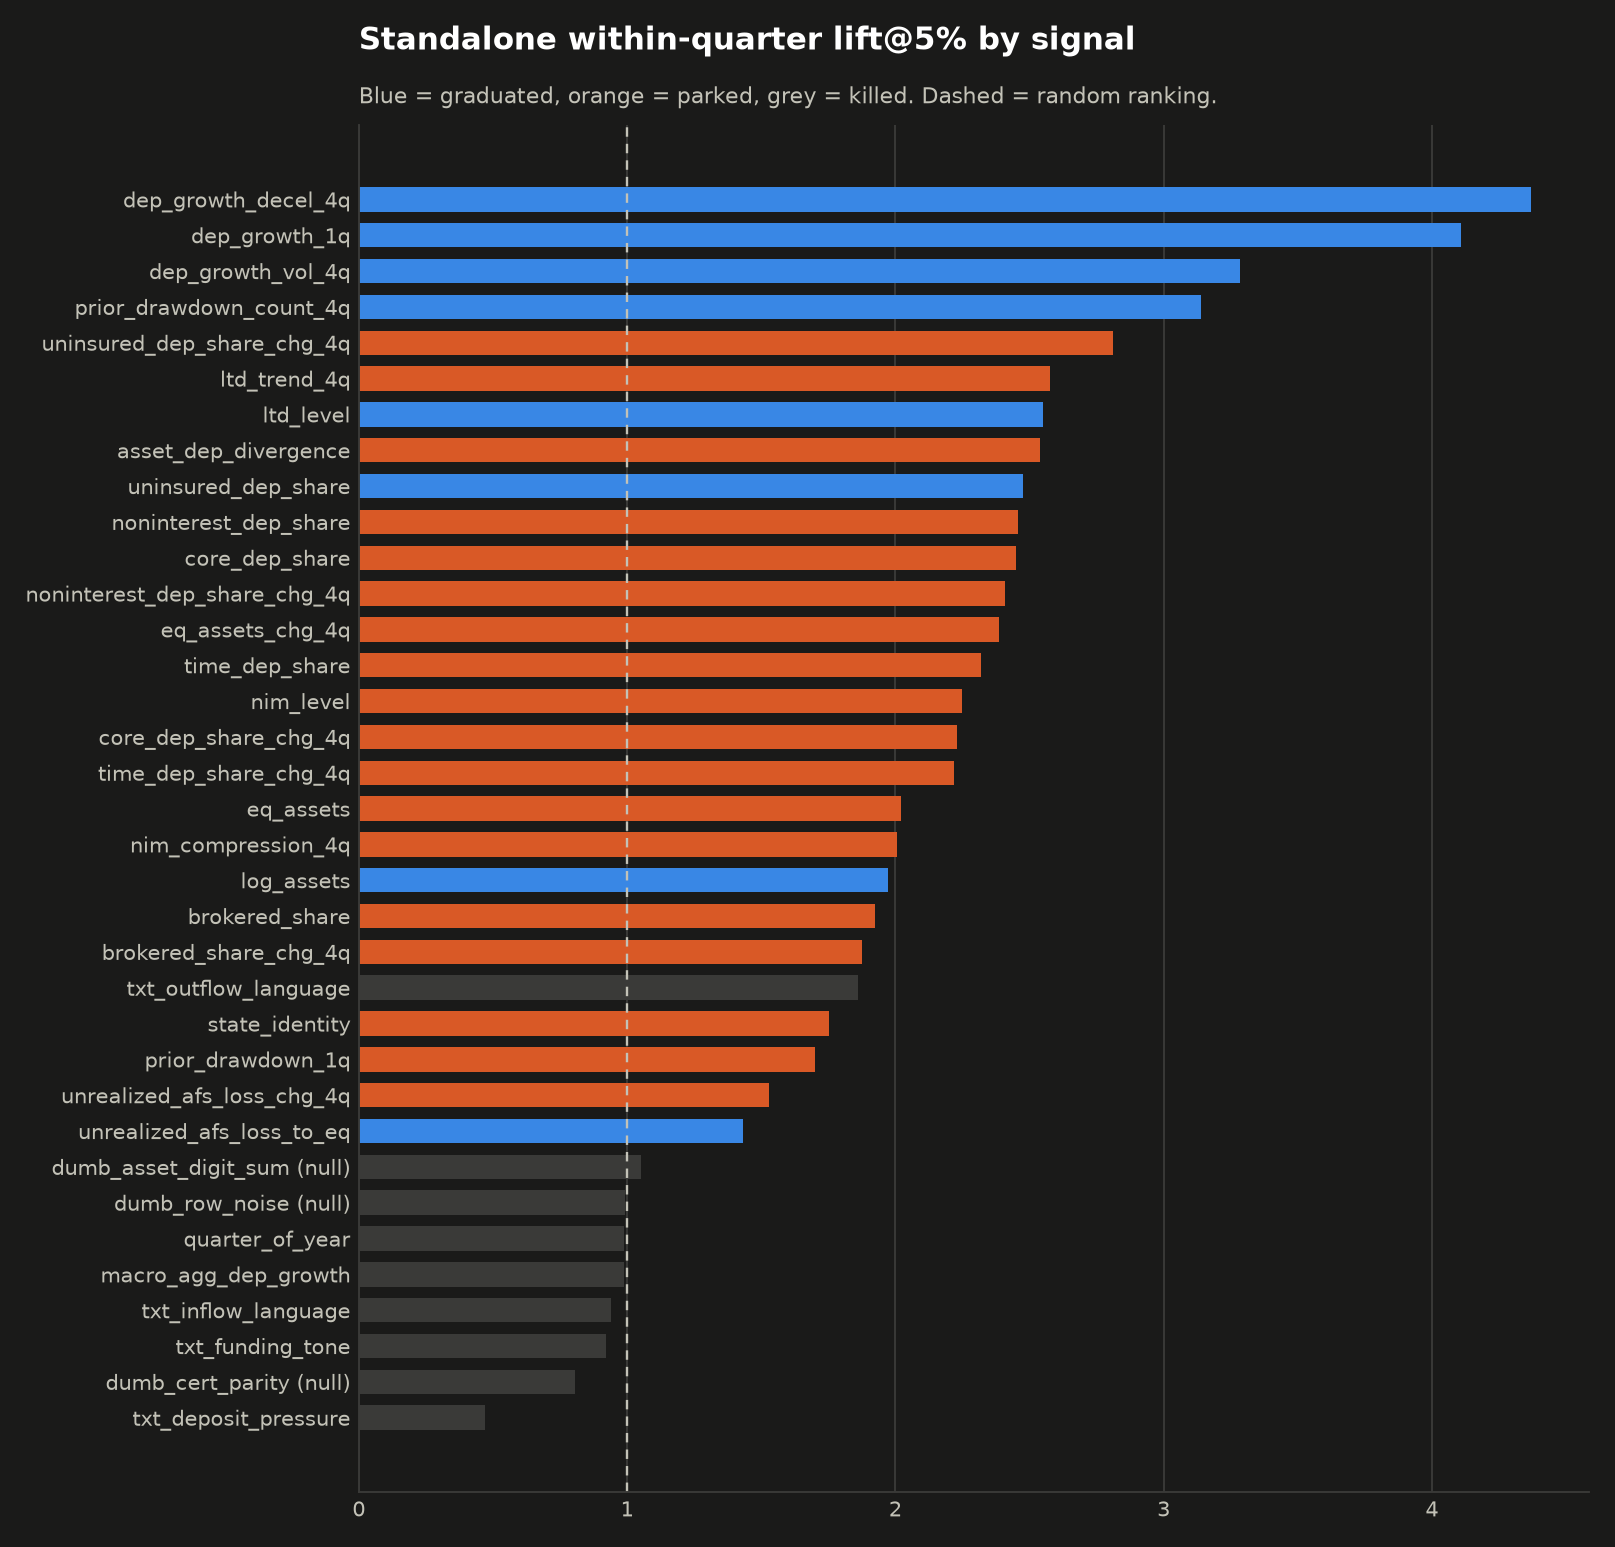
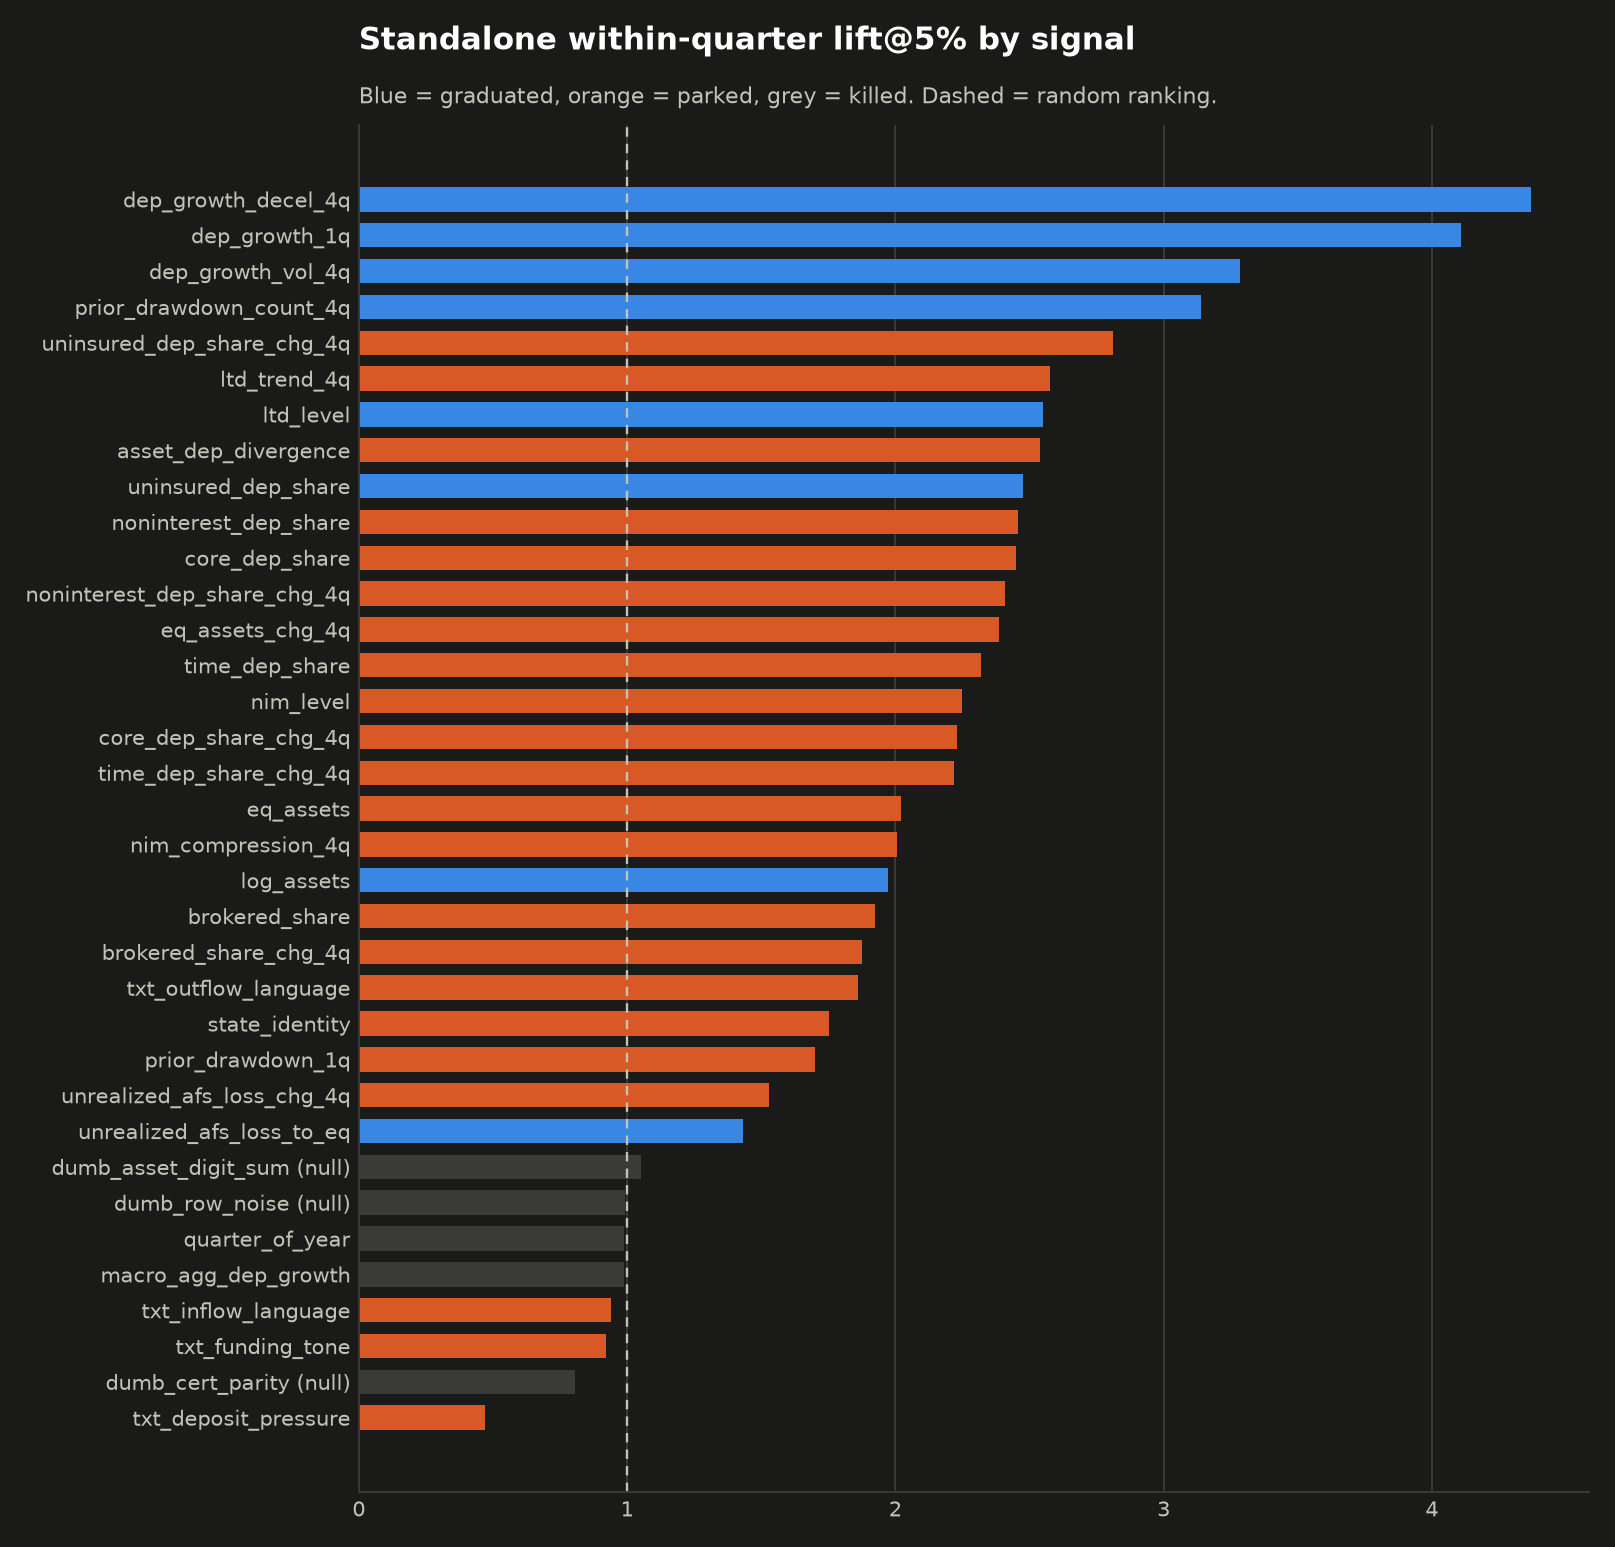
Rename project to flightrisk
Package src/drawdown_radar -> src/flightrisk, distribution and console script
drawdown-radar -> flightrisk, and every import, Makefile target, and doc reference
updated. Directory moved to ~/flightrisk and the venv recreated (a venv bakes absolute
paths into its shebangs, so it does not survive a directory move).

The rename is deliberately surgical: it touches only the PROJECT and PACKAGE name, never
the domain term. Both patterns require a _radar / -radar suffix, so bare "drawdown" cannot
match -- 67 uses of "drawdown" as banking vocabulary (deposit drawdown, drawdown base
rate, dep_growth thresholds, the -5% event definition) are untouched, and 0 project-name
references remain.

The name earns itself: deposits take flight before a franchise does, and the alert list
ranks whose are about to. Added that as a one-line gloss under the title.

Verified after the rename: ruff clean on src and tests, 116 tests pass, and both entry
points work -- the installed `flightrisk` console script and `python -m flightrisk.cli`.

Note on freeze evidence: this discards an in-flight `make all` that was ~28 minutes into
the pre-rename code. A green run against a package name that no longer exists is not
evidence about the frozen repo, so the full run is being redone once, under the new name.

Changed region(s): [[0.2167, 0.8378, 0.4025, 0.9308], [0.2167, 0.6206, 0.5263, 0.6516]]

diff --git a/tests/test_backtest.py b/tests/test_backtest.py
@@ -6,10 +6,10 @@ import numpy as np
 import pandas as pd
 import pytest
 
-from drawdown_radar import evaluate
-from drawdown_radar.backtest import MIN_TRAIN_QUARTERS, Spec, _folds, structured_features
-from drawdown_radar.config import quarter_index, quarter_range
-from drawdown_radar.registry import REGISTRY, Status, check_integrity
+from flightrisk import evaluate
+from flightrisk.backtest import MIN_TRAIN_QUARTERS, Spec, _folds, structured_features
+from flightrisk.config import quarter_index, quarter_range
+from flightrisk.registry import REGISTRY, Status, check_integrity
 
 
 # --------------------------------------------------------------- fold boundaries
@@ -72,7 +72,7 @@ def test_structured_feature_set_excludes_dumb_and_macro():
 
 def test_spec_with_no_features_is_rejected_loudly():
     """An empty feature list means the registry was not imported -- fail, don't fit on nothing."""
-    from drawdown_radar.backtest import _score_fold
+    from flightrisk.backtest import _score_fold
 
     df = pd.DataFrame(
         {
@@ -138,7 +138,7 @@ def test_size_stratum_boundaries():
 
 def test_shuffled_labels_preserve_the_per_quarter_base_rate():
     """Shuffling globally would also destroy the regime structure and make the test too easy."""
-    from drawdown_radar.audit import shuffled_label_check
+    from flightrisk.audit import shuffled_label_check
 
     rng = np.random.default_rng(1)
     df = pd.DataFrame(

diff --git a/src/flightrisk/scorecards.py b/src/flightrisk/scorecards.py
@@ -2,7 +2,7 @@
 in PLAN.md before any result was seen — so the bar cannot be moved to fit the outcome.
 
 `reports/signal_scorecards.md` and the README summary table are generated from here. Neither
-is hand-edited; both are regenerated by `drawdown-radar scorecards`.
+is hand-edited; both are regenerated by `flightrisk scorecards`.
 """
 
 from __future__ import annotations
@@ -119,7 +119,7 @@ def write_markdown(cards: pd.DataFrame, headline: dict | None = None) -> str:
     lines = [
         "# Signal graduation scorecards",
         "",
-        "Generated by `drawdown-radar scorecards` from the registry. Do not edit by hand.",
+        "Generated by `flightrisk scorecards` from the registry. Do not edit by hand.",
         "",
         "**Metric.** `lift@5%` is within-quarter precision@top-5% divided by that quarter's "
         "base rate, macro-averaged over 28 walk-forward test quarters (2019Q1–2025Q4). "
@@ -191,7 +191,7 @@ def write_markdown(cards: pd.DataFrame, headline: dict | None = None) -> str:
     return text
 
 
-README_BEGIN = "<!-- BEGIN:signal-table (generated by `drawdown-radar scorecards`) -->"
+README_BEGIN = "<!-- BEGIN:signal-table (generated by `flightrisk scorecards`) -->"
 README_END = "<!-- END:signal-table -->"
 
 

diff --git a/tests/test_reasons.py b/tests/test_reasons.py
@@ -19,8 +19,8 @@ import re
 import pandas as pd
 import pytest
 
-from drawdown_radar.config import REPORTS
-from drawdown_radar.score import PHRASING, _reason
+from flightrisk.config import REPORTS
+from flightrisk.score import PHRASING, _reason
 
 DIRECTIONAL = {k: v for k, v in PHRASING.items() if isinstance(v, tuple)}
 
@@ -99,7 +99,7 @@ def test_the_bny_mellon_case_specifically():
 
 def test_every_signal_that_can_appear_in_an_alert_has_phrasing():
     """A signal with no template silently contributes nothing to the reason string."""
-    from drawdown_radar.backtest import structured_features
+    from flightrisk.backtest import structured_features
 
     missing = [f for f in structured_features() if f not in PHRASING]
     assert not missing, f"signals in the model with no reason-string template: {missing}"
@@ -113,7 +113,7 @@ def test_reason_falls_back_rather_than_crashing_on_missing_values():
 def _alerts() -> list[dict]:
     path = REPORTS / "alerts_2026Q1.json"
     if not path.exists():
-        pytest.skip("run `drawdown-radar score --quarter 2026Q1` first")
+        pytest.skip("run `flightrisk score --quarter 2026Q1` first")
     return json.loads(path.read_text())["alerts"]
 
 

diff --git a/src/flightrisk/pipeline.py b/src/flightrisk/pipeline.py
@@ -13,7 +13,7 @@ from .config import PROCESSED, REPORTS
 def _dataset() -> pd.DataFrame:
     p = PROCESSED / "dataset.parquet"
     if not p.exists():
-        raise FileNotFoundError("Run `drawdown-radar build` first.")
+        raise FileNotFoundError("Run `flightrisk build` first.")
     return pd.read_parquet(p)
 
 
@@ -102,7 +102,7 @@ def run_backtest(skip_ablations: bool = False) -> None:
 def run_scorecards() -> None:
     path = REPORTS / "ablations.csv"
     if not path.exists():
-        raise FileNotFoundError("Run `drawdown-radar backtest` first (it writes ablations.csv).")
+        raise FileNotFoundError("Run `flightrisk backtest` first (it writes ablations.csv).")
     abl = pd.read_csv(path)
     cards = scorecards.apply_verdicts(abl)
     # Text signals are judged by `run_text` (they have no structured ablation rows), so fold their

diff --git a/src/flightrisk/data.py b/src/flightrisk/data.py
@@ -197,12 +197,12 @@ def pull_all(refresh: bool = False) -> tuple[pd.DataFrame, pd.DataFrame]:
 def load_panel() -> pd.DataFrame:
     p = RAW / "financials_panel.parquet"
     if not p.exists():
-        raise FileNotFoundError("Run `drawdown-radar pull` first.")
+        raise FileNotFoundError("Run `flightrisk pull` first.")
     return pd.read_parquet(p)
 
 
 def load_institutions() -> pd.DataFrame:
     p = RAW / "institutions.parquet"
     if not p.exists():
-        raise FileNotFoundError("Run `drawdown-radar pull` first.")
+        raise FileNotFoundError("Run `flightrisk pull` first.")
     return pd.read_parquet(p)

diff --git a/src/flightrisk/backtest.py b/src/flightrisk/backtest.py
@@ -245,7 +245,7 @@ def _score_fold(tr: pd.DataFrame, te: pd.DataFrame, spec: Spec, label: str) -> p
         if not spec.features:
             raise ValueError(
                 f"spec '{spec.name}' has an empty feature list -- the registry was probably "
-                f"not populated (import drawdown_radar.signals)"
+                f"not populated (import flightrisk.signals)"
             )
         model = make_model(spec.kind, features=spec.features)
         model.fit(tr[spec.features], tr[label])

diff --git a/src/flightrisk/registry.py b/src/flightrisk/registry.py
@@ -99,7 +99,7 @@ def check_integrity() -> None:
     # importing `signals` leaves REGISTRY empty and nothing complains. Fail loudly instead.
     if not REGISTRY:
         raise ValueError(
-            "registry is empty -- import drawdown_radar.signals before calling check_integrity(); "
+            "registry is empty -- import flightrisk.signals before calling check_integrity(); "
             "an empty registry makes every feature list silently empty"
         )
     for s in REGISTRY.values():

diff --git a/tests/test_features.py b/tests/test_features.py
@@ -6,9 +6,9 @@ import numpy as np
 import pandas as pd
 import pytest
 
-from drawdown_radar.features import add_lags, macro_deposit_growth, prepare
-from drawdown_radar.registry import Status
-from drawdown_radar.scorecards import _verdict
+from flightrisk.features import add_lags, macro_deposit_growth, prepare
+from flightrisk.registry import Status
+from flightrisk.scorecards import _verdict
 
 
 # --------------------------------------------------------------- lags

diff --git a/tests/test_labels.py b/tests/test_labels.py
@@ -5,14 +5,14 @@ from __future__ import annotations
 import pandas as pd
 import pytest
 
-from drawdown_radar.config import (
+from flightrisk.config import (
     next_quarter,
     quarter_index,
     quarter_range,
     quarter_to_repdte,
     repdte_to_quarter,
 )
-from drawdown_radar.labels import _clean_id, build_labels, merger_events
+from flightrisk.labels import _clean_id, build_labels, merger_events
 
 
 def _panel(rows: list[dict]) -> pd.DataFrame:

diff --git a/tests/test_extraction.py b/tests/test_extraction.py
@@ -10,9 +10,9 @@ from __future__ import annotations
 import pandas as pd
 import pytest
 
-from drawdown_radar.config import quarter_index
-from drawdown_radar.extraction import extract, timing
-from drawdown_radar.extraction.edgar import narrative_score
+from flightrisk.config import quarter_index
+from flightrisk.extraction import extract, timing
+from flightrisk.extraction.edgar import narrative_score
 
 
 def _filings(rows: list[dict]) -> pd.DataFrame:

diff --git a/src/flightrisk/config.py b/src/flightrisk/config.py
@@ -26,7 +26,7 @@ FDIC_DICT_URL = "https://api.fdic.gov/banks/docs/risview_properties.yaml"
 SEC_SUBMISSIONS = "https://data.sec.gov/submissions"
 SEC_TICKERS = "https://www.sec.gov/files/company_tickers.json"
 # SEC requires a descriptive UA with contact info.
-SEC_UA = "drawdown-radar research (laksh.g@gmicloud.ai)"
+SEC_UA = "flightrisk research (laksh.g@gmicloud.ai)"
 
 API_PAGE_LIMIT = 10_000  # hard cap on both /financials and /institutions
 

diff --git a/src/flightrisk/cli.py b/src/flightrisk/cli.py
@@ -1,4 +1,4 @@
-"""drawdown-radar CLI. The pipeline is these commands, not a notebook."""
+"""flightrisk CLI. The pipeline is these commands, not a notebook."""
 
 from __future__ import annotations
 
